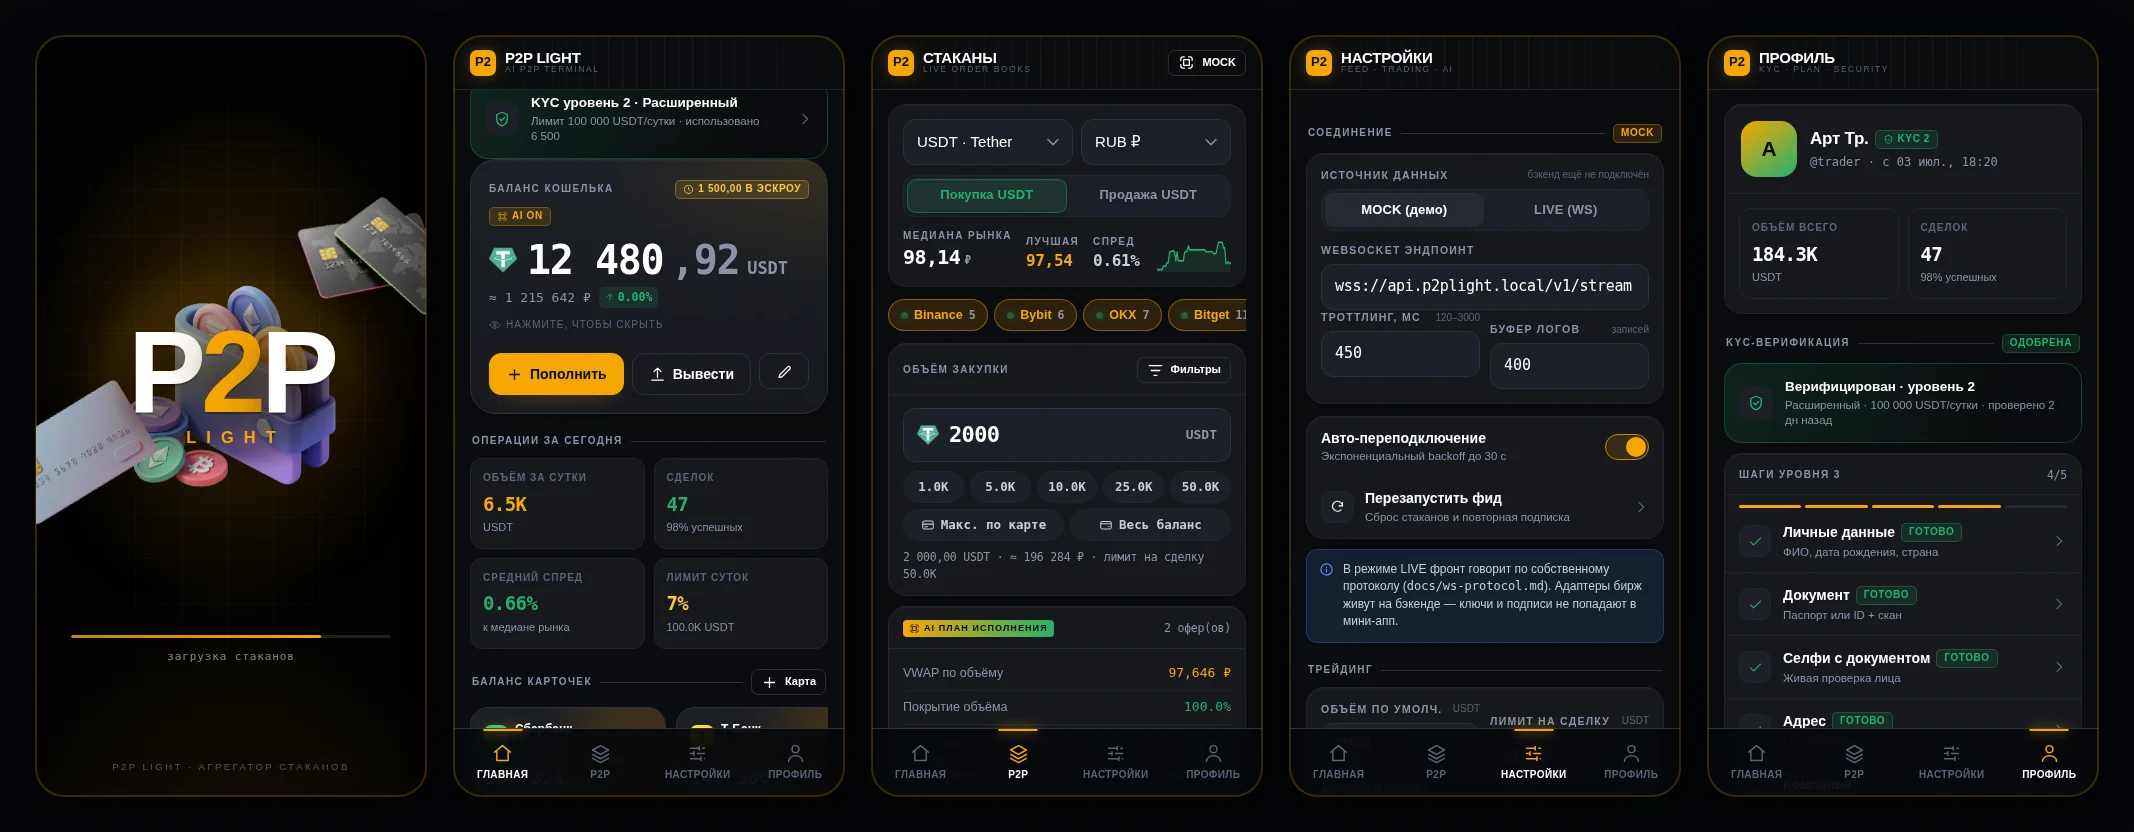
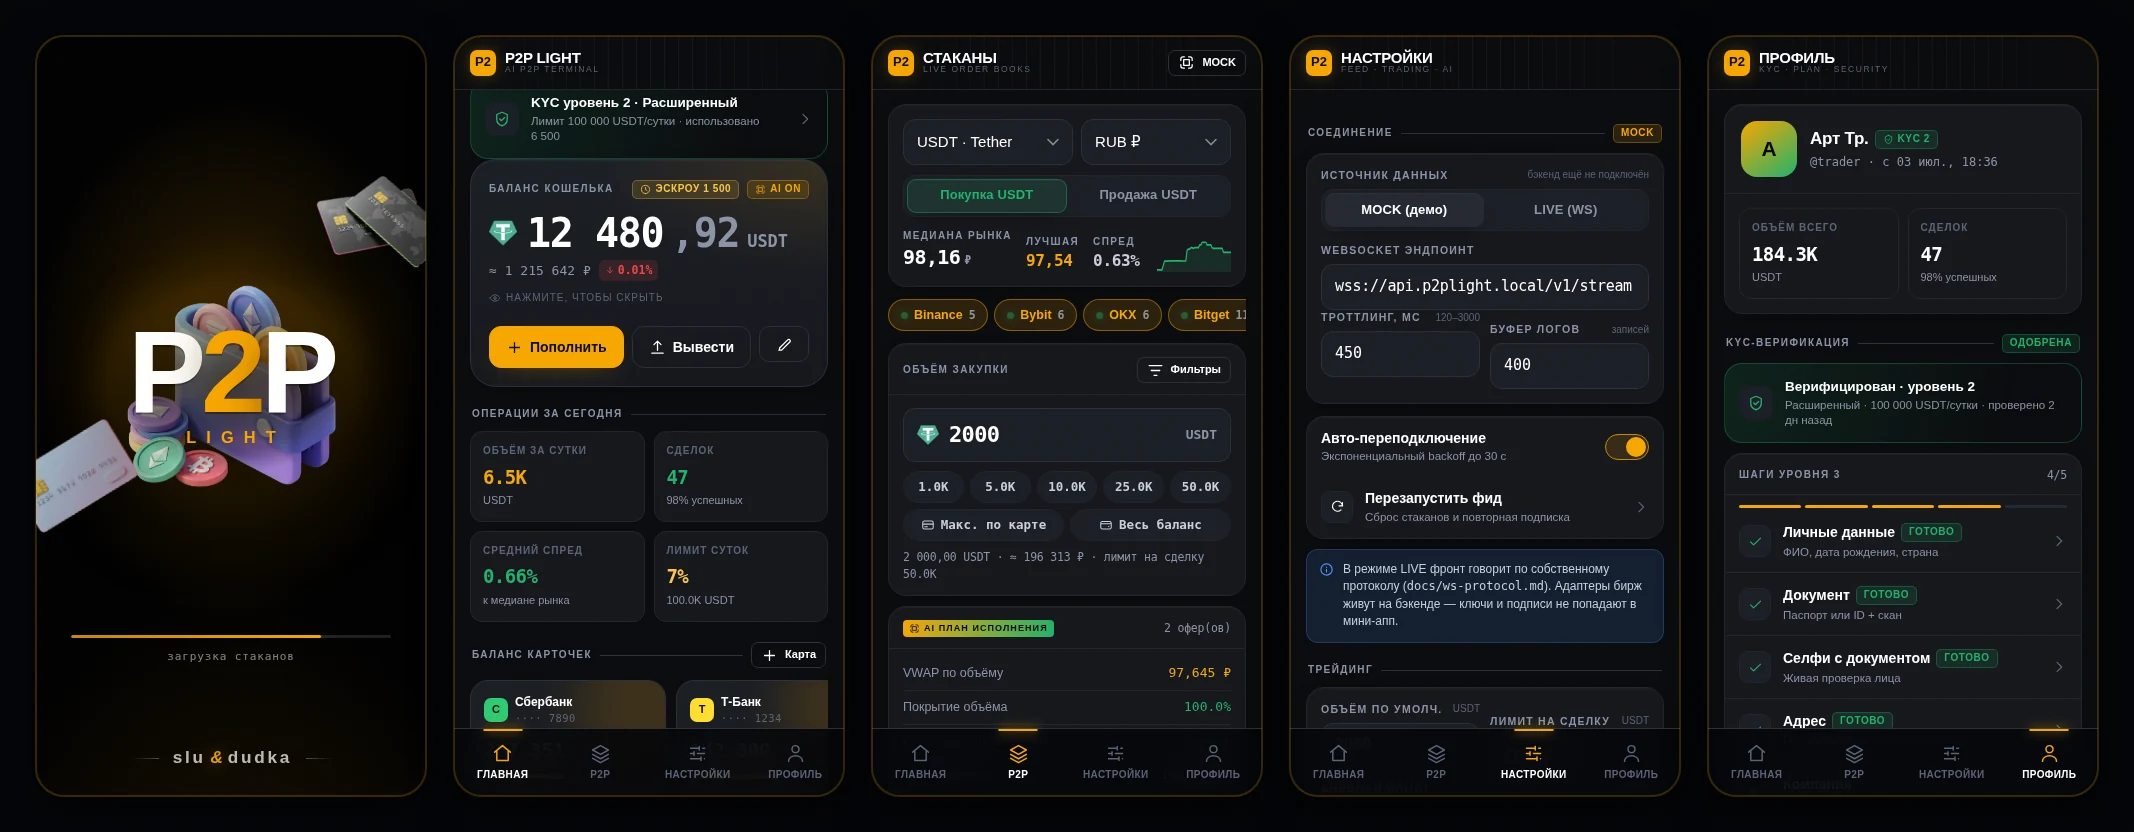
Refine splash: smaller cards, drop the grid, sign it slu&dudka
- Cards shrink (198/214px -> 154/168px) and move to opposite corners: the
  white one lower-left, the dark pair upper-right, each still bleeding past
  its own edge.
- Removes the terminal grid overlay, leaving the orange glow on black.
- Replaces the "P2P Light · агрегатор стаканов" line with a slu&dudka
  signature: tracked lowercase with an italic accent ampersand and a hairline
  on each side, so it reads as a mark rather than fine print.

Verified at 360px and 430px wide: P2P stays the largest element, the wallet
stays behind the word, and the bundled file still passes the four-tab and
purchase-flow checks.

Claude-Session: https://claude.ai/code/session_01NVXxSVWYTytzfgkMxGLxi4

diff --git a/dist/index.html b/dist/index.html
@@ -1223,7 +1223,7 @@ main {
 /* ===== styles/splash.css ===== */
 /* =========================================================
    Загрузочный экран «P2P Light»
-   Кошелёк — позади надписи, карты разлетаются влево и вправо.
+   Кошелёк — позади надписи, карты разведены по противоположным углам.
    ========================================================= */
 #splash {
   position: fixed;
@@ -1252,18 +1252,6 @@ main {
 #splash.is-gone {
   opacity: 0;
   transform: scale(1.06);
-  pointer-events: none;
-}
-
-/* тонкая сетка-подложка, как в терминале */
-#splash::before {
-  content: "";
-  position: absolute; inset: -10%;
-  background-image:
-    linear-gradient(to right, rgba(255,255,255,.045) 1px, transparent 1px),
-    linear-gradient(to bottom, rgba(255,255,255,.045) 1px, transparent 1px);
-  background-size: 46px 46px;
-  mask-image: radial-gradient(70% 55% at 50% 45%, #000 20%, transparent 78%);
   pointer-events: none;
 }
 
@@ -1370,16 +1358,16 @@ main {
   will-change: transform;
 }
 .sp-card.left {
-  width: min(42vw, 198px);
-  left: max(-11vw, -58px);
-  top: 54%;
+  width: min(33vw, 154px);
+  left: max(-7vw, -34px);
+  top: 62%;
   animation: sp-left 1.05s var(--ease-out) both;
   animation-delay: .12s;
 }
 .sp-card.right {
-  width: min(46vw, 214px);
-  right: max(-12vw, -64px);
-  top: 7%;
+  width: min(36vw, 168px);
+  right: max(-7vw, -36px);
+  top: 2%;
   animation: sp-right 1.05s var(--ease-out) both;
   animation-delay: .22s;
 }
@@ -1425,19 +1413,42 @@ main {
   animation: sp-fade .6s var(--ease) both;
   animation-delay: .5s;
 }
-.sp-brand {
+.sp-sign {
   position: absolute;
-  bottom: calc(22px + env(safe-area-inset-bottom));
+  bottom: calc(26px + env(safe-area-inset-bottom));
   left: 0; right: 0;
   z-index: 3;
   text-align: center;
-  font-size: 9.5px;
-  letter-spacing: .26em;
-  text-transform: uppercase;
-  color: rgba(255, 255, 255, .3);
-  animation: sp-fade .6s var(--ease) both;
-  animation-delay: .9s;
+  font-family: var(--font-ui);
+  font-size: clamp(15px, 4.4vw, 19px);
+  font-weight: 600;
+  font-stretch: 108%;
+  letter-spacing: .16em;
+  text-indent: .16em;
+  color: rgba(255, 255, 255, .78);
+  animation: sp-fade .7s var(--ease) both;
+  animation-delay: .95s;
 }
+.sp-sign b {
+  display: inline-block;
+  margin: 0 .12em;
+  font-weight: 700;
+  font-style: italic;
+  color: var(--acid);
+  text-shadow: 0 0 18px rgba(var(--acid-rgb), .55);
+}
+/* тонкие штрихи по бокам — подпись читается как марка, а не как сноска */
+.sp-sign::before, .sp-sign::after {
+  content: "";
+  display: inline-block;
+  vertical-align: middle;
+  width: clamp(18px, 7vw, 34px);
+  height: 1px;
+  margin: 0 .8em;
+  background: linear-gradient(90deg, transparent, rgba(255,255,255,.3));
+}
+.sp-sign::after { background: linear-gradient(90deg, rgba(255,255,255,.3), transparent); }
+
 @keyframes sp-fade { from { opacity: 0; } to { opacity: 1; } }
 
 @media (prefers-reduced-motion: reduce) {
@@ -1470,7 +1481,7 @@ main {
     <div class="sp-bar"><i id="sp-progress"></i></div>
     <div class="sp-hint" id="sp-hint">инициализация…</div>
   </div>
-  <div class="sp-brand">P2P Light · агрегатор стаканов</div>
+  <div class="sp-sign">slu<b>&amp;</b>dudka</div>
 </div>
 
 <div id="app">

diff --git a/styles/splash.css b/styles/splash.css
@@ -1,6 +1,6 @@
 /* =========================================================
    Загрузочный экран «P2P Light»
-   Кошелёк — позади надписи, карты разлетаются влево и вправо.
+   Кошелёк — позади надписи, карты разведены по противоположным углам.
    ========================================================= */
 #splash {
   position: fixed;
@@ -29,18 +29,6 @@
 #splash.is-gone {
   opacity: 0;
   transform: scale(1.06);
-  pointer-events: none;
-}
-
-/* тонкая сетка-подложка, как в терминале */
-#splash::before {
-  content: "";
-  position: absolute; inset: -10%;
-  background-image:
-    linear-gradient(to right, rgba(255,255,255,.045) 1px, transparent 1px),
-    linear-gradient(to bottom, rgba(255,255,255,.045) 1px, transparent 1px);
-  background-size: 46px 46px;
-  mask-image: radial-gradient(70% 55% at 50% 45%, #000 20%, transparent 78%);
   pointer-events: none;
 }
 
@@ -147,16 +135,16 @@
   will-change: transform;
 }
 .sp-card.left {
-  width: min(42vw, 198px);
-  left: max(-11vw, -58px);
-  top: 54%;
+  width: min(33vw, 154px);
+  left: max(-7vw, -34px);
+  top: 62%;
   animation: sp-left 1.05s var(--ease-out) both;
   animation-delay: .12s;
 }
 .sp-card.right {
-  width: min(46vw, 214px);
-  right: max(-12vw, -64px);
-  top: 7%;
+  width: min(36vw, 168px);
+  right: max(-7vw, -36px);
+  top: 2%;
   animation: sp-right 1.05s var(--ease-out) both;
   animation-delay: .22s;
 }
@@ -202,19 +190,42 @@
   animation: sp-fade .6s var(--ease) both;
   animation-delay: .5s;
 }
-.sp-brand {
+.sp-sign {
   position: absolute;
-  bottom: calc(22px + env(safe-area-inset-bottom));
+  bottom: calc(26px + env(safe-area-inset-bottom));
   left: 0; right: 0;
   z-index: 3;
   text-align: center;
-  font-size: 9.5px;
-  letter-spacing: .26em;
-  text-transform: uppercase;
-  color: rgba(255, 255, 255, .3);
-  animation: sp-fade .6s var(--ease) both;
-  animation-delay: .9s;
+  font-family: var(--font-ui);
+  font-size: clamp(15px, 4.4vw, 19px);
+  font-weight: 600;
+  font-stretch: 108%;
+  letter-spacing: .16em;
+  text-indent: .16em;
+  color: rgba(255, 255, 255, .78);
+  animation: sp-fade .7s var(--ease) both;
+  animation-delay: .95s;
 }
+.sp-sign b {
+  display: inline-block;
+  margin: 0 .12em;
+  font-weight: 700;
+  font-style: italic;
+  color: var(--acid);
+  text-shadow: 0 0 18px rgba(var(--acid-rgb), .55);
+}
+/* тонкие штрихи по бокам — подпись читается как марка, а не как сноска */
+.sp-sign::before, .sp-sign::after {
+  content: "";
+  display: inline-block;
+  vertical-align: middle;
+  width: clamp(18px, 7vw, 34px);
+  height: 1px;
+  margin: 0 .8em;
+  background: linear-gradient(90deg, transparent, rgba(255,255,255,.3));
+}
+.sp-sign::after { background: linear-gradient(90deg, rgba(255,255,255,.3), transparent); }
+
 @keyframes sp-fade { from { opacity: 0; } to { opacity: 1; } }
 
 @media (prefers-reduced-motion: reduce) {

diff --git a/index.html b/index.html
@@ -45,7 +45,7 @@
     <div class="sp-bar"><i id="sp-progress"></i></div>
     <div class="sp-hint" id="sp-hint">инициализация…</div>
   </div>
-  <div class="sp-brand">P2P Light · агрегатор стаканов</div>
+  <div class="sp-sign">slu<b>&amp;</b>dudka</div>
 </div>
 
 <div id="app">
